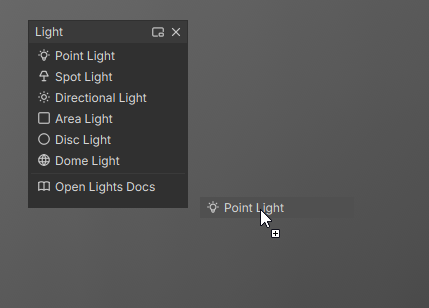
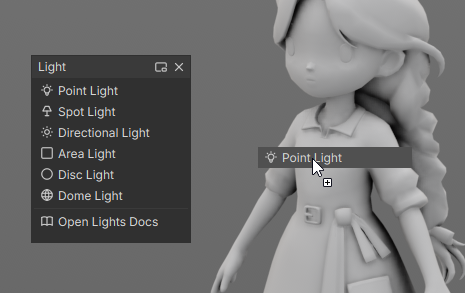
Essentials: Shift+T tear-off palettes

diff --git a/docs/essentials.md b/docs/essentials.md
@@ -14,7 +14,7 @@ Press **Ctrl+T** and type. Every menu command is searchable, so you don't need t
 
 - **Enter** runs the highlighted command.
 - **Shift+Enter**, or clicking the square at the end of a row, opens the command's options.
-- **Ctrl+F** switches to searching the scene.
+- **Ctrl+F** switches to searching the scene, **Shift+T** to [tearing off a menu](#tear-off-a-menu-as-a-palette).
 
 ## Hotkey cheat sheet
 
@@ -80,9 +80,17 @@ When creating a primitive, lower **Fraction** to create only part of it.
 
 ## Tear off a menu as a palette
 
-Click the dashed line at the top of any menu to tear it off into a floating palette that stays open (a section title tears off just that section). Click an item to run it, or drag it into a viewport to create it where you drop it instead of at the origin: primitives, lights, locators, cameras and so on land on the surface under the cursor, or on the ground grid. Dragging works straight out of an open **Create** menu too. One undo removes it.
+Press **Shift+T** and type part of a menu or section name. Press **Enter** and the palette appears under your cursor; click to drop it where you want it. **Esc** or right-click puts it back.
 
-![A torn-off Light menu with Point Light being dragged into the viewport](images/essentials/menu-tear-off.png)
+![Tear-off search showing results for "light"](images/essentials/tear-off-search.png)
+
+![The Light palette following the cursor](images/essentials/tear-off-placing.png)
+
+You can also click the dashed line at the top of any menu to tear it off where it is (a section title tears off just that section).
+
+> You can drag items from any create-based menu, treating them like an artist's palette.
+
+![Dragging Point Light from the Light palette onto a character](images/essentials/menu-tear-off.png)
 
 ## Snapping
 
